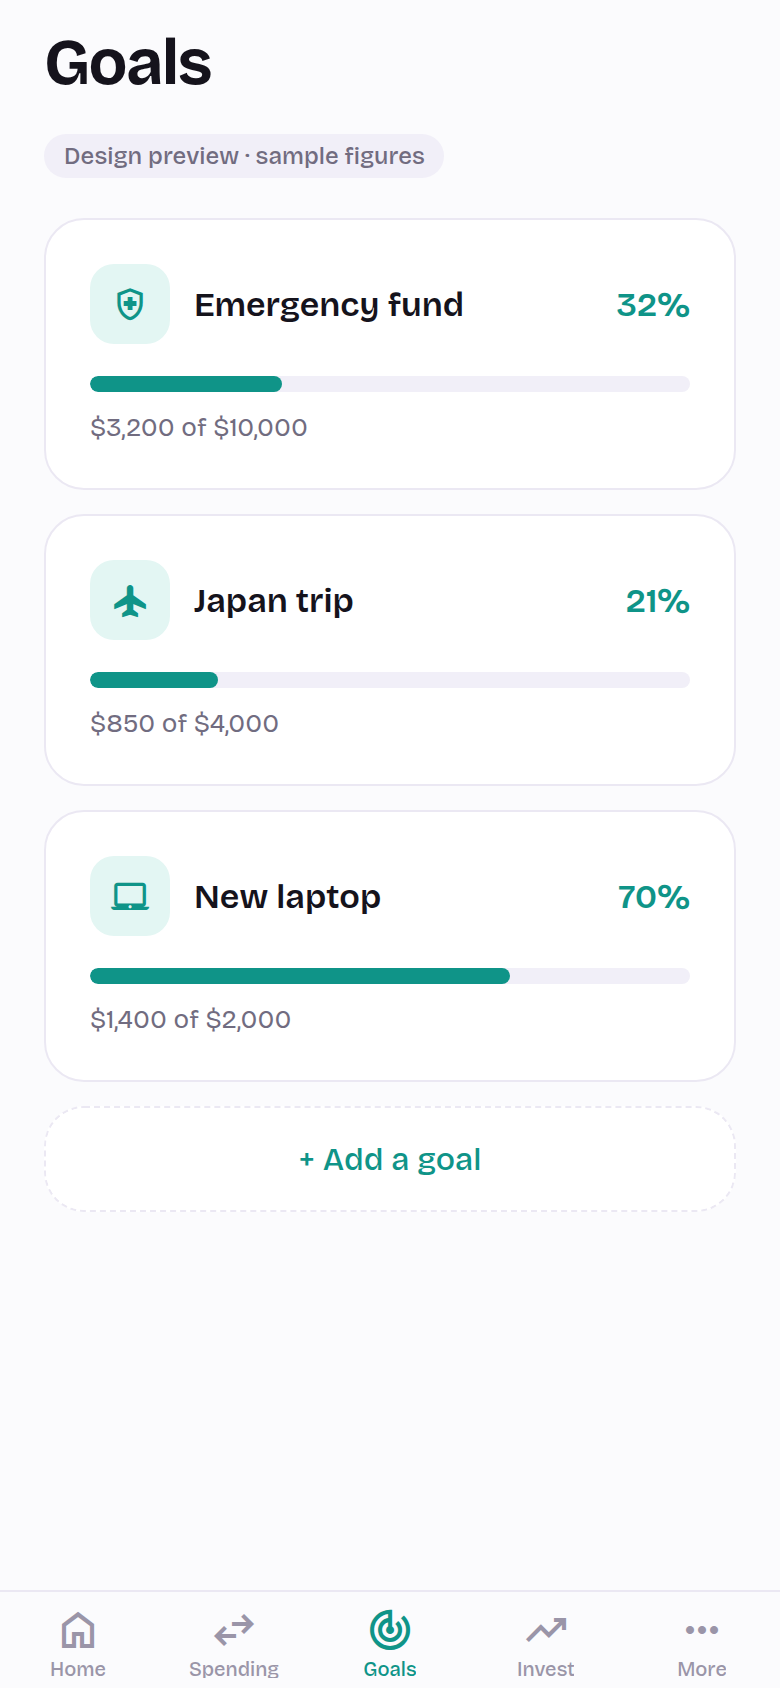
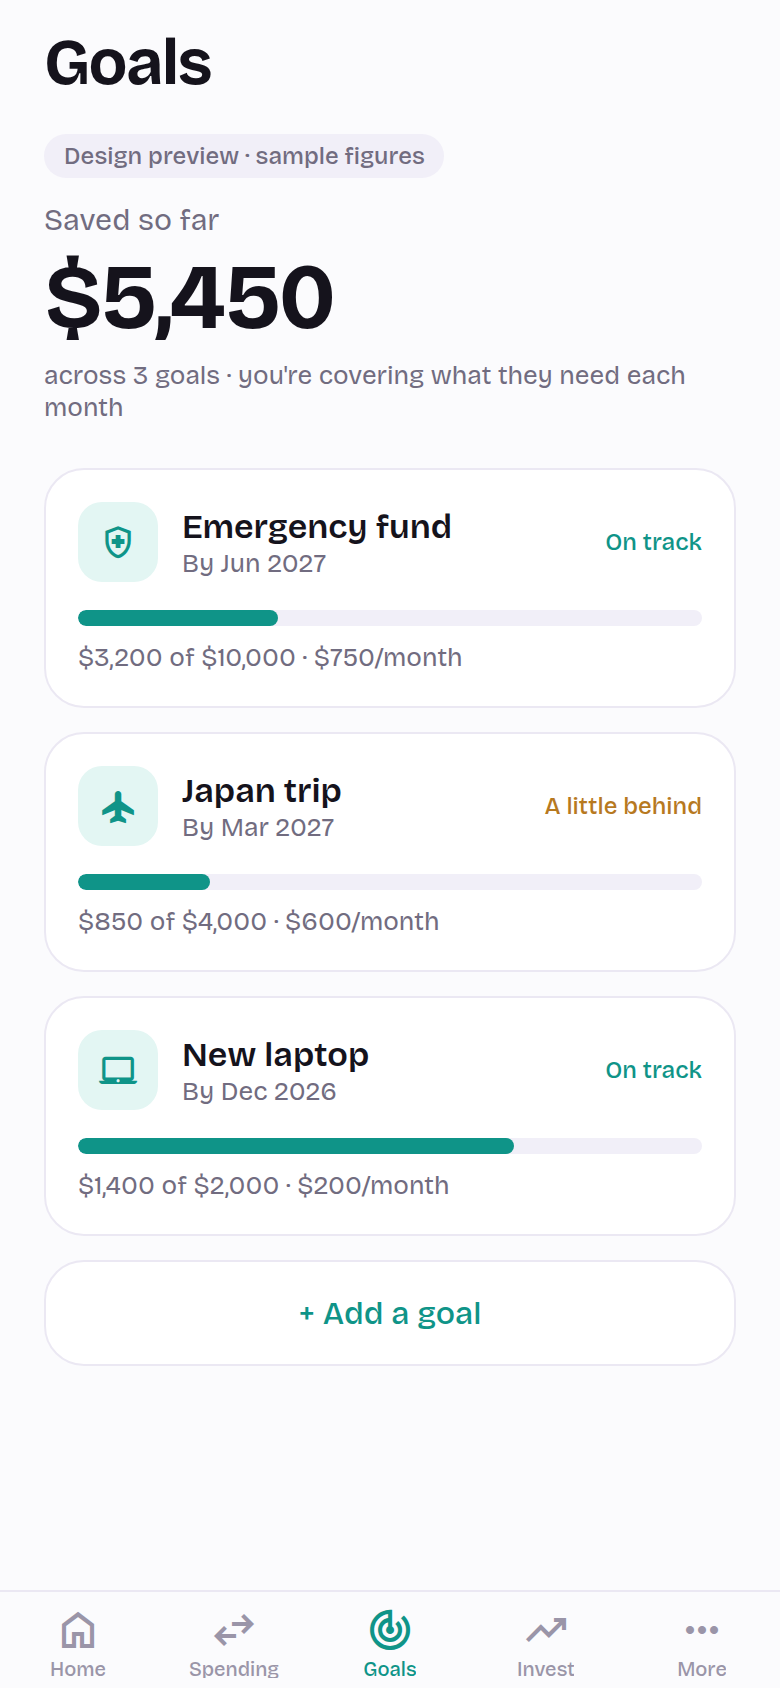
iOS app: balance screens between detail and calm; round whole-dollar amounts
Claude-Session: https://claude.ai/code/session_01MVhZ5JpFv5cdUH6FB37AaQ

diff --git a/mobile/app/(tabs)/index.tsx b/mobile/app/(tabs)/index.tsx
@@ -1,13 +1,12 @@
-import { Text, View } from 'react-native';
+import { Text, useWindowDimensions, View } from 'react-native';
 import { router } from 'expo-router';
 import { Card, formatMoney, PreviewBadge, Row, Screen, SectionHeader, useAccent } from '@/components/ui';
+import { LineChart } from '@/components/LineChart';
 import { PockButton, PockMark } from '@/components/Pock';
 import { preview as p } from '@/data/preview';
 import { space, type, useColors } from '@/theme/tokens';
 
-/**
- * Home answers one question: how much can I spend? Everything else is a tap away.
- */
+/** Home: how much can I spend, what's coming up, and a glance at goals and investments. */
 export default function Home() {
   return (
     <Screen section="home" title={`Hi ${p.name}`} right={<PockButton />}>
@@ -19,30 +18,47 @@ export default function Home() {
 function Body() {
   const c = useColors();
   const a = useAccent();
-  const next = p.upcoming[0];
+  const { width } = useWindowDimensions();
+  const goal = p.goals[0];
   return (
     <>
       <PreviewBadge />
-      <View style={{ alignItems: 'center', paddingVertical: space.xxl }}>
-        <Text style={[type.subhead, { color: c.textMuted }]}>You can spend</Text>
-        <Text style={[type.hero, { color: c.text, fontSize: 56, marginTop: 4 }]}>{formatMoney(p.safeToSpendMinor, { cents: false })}</Text>
-        <Text style={[type.subhead, { color: c.textMuted, marginTop: 6, textAlign: 'center' }]}>until payday on {p.nextIncome.date}</Text>
+      <Text style={[type.subhead, { color: c.textMuted }]}>You can spend</Text>
+      <Text style={[type.hero, { color: c.text, marginTop: 2 }]}>{formatMoney(p.safeToSpendMinor, { cents: false })}</Text>
+      <Text style={[type.footnote, { color: c.textMuted, marginTop: 4 }]}>until payday on {p.nextIncome.date} · after bills</Text>
+
+      <View style={{ marginHorizontal: -space.xl, marginTop: space.lg }}>
+        <LineChart values={[...p.balanceSeries.values]} labels={[...p.balanceSeries.labels]} width={width} height={90} format={(v) => formatMoney(v, { cents: false })} />
       </View>
 
-      <View style={{ flexDirection: 'row', gap: 10, alignItems: 'center', backgroundColor: a.soft, borderRadius: 16, padding: 14 }}>
+      <View style={{ flexDirection: 'row', gap: 10, alignItems: 'center', backgroundColor: a.soft, borderRadius: 14, padding: 12, marginTop: space.lg }}>
         <PockMark color={a.accent} size={22} />
-        <Text style={[type.subhead, { color: c.text, flex: 1 }]}>Your bills are covered. You're doing well.</Text>
+        <Text style={[type.footnote, { color: c.text, flex: 1, lineHeight: 18 }]}>Rent is covered. You could put $50 toward your emergency fund.</Text>
       </View>
 
-      <SectionHeader title="Next bill" action="All bills" />
+      <SectionHeader title="Coming up" action="All bills" />
       <Card>
-        <Row icon={next.icon} title={next.name} detail={`Due ${next.date}`} value={formatMoney(next.amountMinor, { cents: false })} last />
+        {p.upcoming.map((b, i) => (
+          <Row key={b.id} icon={b.icon} title={b.name} detail={b.date} value={formatMoney(b.amountMinor, { cents: false })} last={i === p.upcoming.length - 1} />
+        ))}
       </Card>
 
-      <SectionHeader title="Your goal" />
-      <Card onPress={() => router.push('/goals')}>
-        <Row icon="lifepreserver" title={p.goals[0].name} detail={`${Math.round((p.goals[0].currentMinor / p.goals[0].targetMinor) * 100)}% saved`} value="›" valueColor={c.textSubtle} last />
-      </Card>
+      <View style={{ flexDirection: 'row', gap: 10, marginTop: space.xl }}>
+        <Card style={{ flex: 1, padding: space.lg }} onPress={() => router.push('/goals')}>
+          <Text style={[type.caption, { color: c.section.goals.accent }]}>GOAL</Text>
+          <Text style={[type.bodyStrong, { color: c.text, marginTop: 4 }]} numberOfLines={1} adjustsFontSizeToFit>{goal.name}</Text>
+          <View style={{ height: 6, borderRadius: 6, backgroundColor: c.surface2, marginTop: 10 }}>
+            <View style={{ width: `${(goal.currentMinor / goal.targetMinor) * 100}%`, height: 6, borderRadius: 6, backgroundColor: c.section.goals.accent }} />
+          </View>
+          <Text style={[type.footnote, { color: c.textMuted, marginTop: 8 }]}>{Math.round((goal.currentMinor / goal.targetMinor) * 100)}% saved</Text>
+        </Card>
+        <Card style={{ flex: 1, padding: space.lg }} onPress={() => router.push('/invest')}>
+          <Text style={[type.caption, { color: c.section.invest.accent }]}>INVESTED</Text>
+          <Text style={[type.bodyStrong, { color: c.text, marginTop: 4 }]}>{formatMoney(p.invest.totalMinor, { cents: false })}</Text>
+          <Text style={[type.footnote, { color: c.positive, marginTop: 24 }]}>▲ {p.invest.changePct}% this month</Text>
+        </Card>
+      </View>
     </>
   );
 }
+

diff --git a/mobile/app/(tabs)/invest.tsx b/mobile/app/(tabs)/invest.tsx
@@ -1,9 +1,10 @@
-import { Text, View } from 'react-native';
+import { Text, useWindowDimensions, View } from 'react-native';
 import { Card, formatMoney, PreviewBadge, Screen, SectionHeader, useAccent } from '@/components/ui';
+import { LineChart } from '@/components/LineChart';
 import { preview as p } from '@/data/preview';
 import { space, type, useColors } from '@/theme/tokens';
 
-/** Invest: what your investments are worth, and what you own. Research lives behind search. */
+/** Invest: total value and its trend, what you own, and a short watchlist. */
 export default function Invest() {
   return (
     <Screen section="invest" title="Invest">
@@ -12,34 +13,54 @@ export default function Invest() {
   );
 }
 
-function Body() {
+function Line({ symbol, name, value, pct, last }: { symbol: string; name: string; value: string; pct: number; last: boolean }) {
   const c = useColors();
   const a = useAccent();
+  return (
+    <View style={{ flexDirection: 'row', alignItems: 'center', gap: space.md, padding: space.lg, borderBottomWidth: last ? 0 : 0.5, borderBottomColor: c.border }}>
+      <View style={{ width: 40, height: 40, borderRadius: 12, backgroundColor: a.soft, alignItems: 'center', justifyContent: 'center' }}>
+        <Text style={[type.caption, { color: a.accent, fontSize: 10 }]}>{symbol}</Text>
+      </View>
+      <View style={{ flex: 1 }}>
+        <Text style={[type.bodyStrong, { color: c.text }]}>{symbol}</Text>
+        <Text style={[type.footnote, { color: c.textMuted }]} numberOfLines={1}>{name}</Text>
+      </View>
+      <View style={{ alignItems: 'flex-end' }}>
+        <Text style={[type.bodyStrong, { color: c.text }]}>{value}</Text>
+        <Text style={[type.footnote, { color: pct >= 0 ? c.positive : c.negative }]}>{pct >= 0 ? '▲' : '▼'} {Math.abs(pct)}%</Text>
+      </View>
+    </View>
+  );
+}
+
+function Body() {
+  const c = useColors();
+  const { width } = useWindowDimensions();
   const inv = p.invest;
   return (
     <>
       <PreviewBadge />
-      <View style={{ alignItems: 'center', paddingVertical: space.xxl }}>
-        <Text style={[type.subhead, { color: c.textMuted }]}>Your investments</Text>
-        <Text style={[type.hero, { color: c.text, fontSize: 56, marginTop: 4 }]}>{formatMoney(inv.totalMinor, { cents: false })}</Text>
-        <Text style={[type.subhead, { color: c.positive, marginTop: 6 }]}>Up {inv.changePct}% this month</Text>
+      <Text style={[type.subhead, { color: c.textMuted }]}>Your investments</Text>
+      <Text style={[type.hero, { color: c.text, marginTop: 2 }]}>{formatMoney(inv.totalMinor, { cents: false })}</Text>
+      <Text style={[type.footnote, { color: c.positive, marginTop: 4 }]}>▲ {formatMoney(inv.changeMinor, { cents: false })} ({inv.changePct}%) this month</Text>
+      <View style={{ marginHorizontal: -space.xl, marginTop: space.lg }}>
+        <LineChart values={[...inv.series]} labels={[...p.balanceSeries.labels]} width={width} height={90} format={(v) => formatMoney(v, { cents: false })} />
       </View>
 
       <SectionHeader title="What you own" />
       <Card>
         {inv.holdings.map((h, i) => (
-          <View key={h.symbol} style={{ flexDirection: 'row', alignItems: 'center', gap: space.md, padding: space.lg, borderBottomWidth: i < inv.holdings.length - 1 ? 0.5 : 0, borderBottomColor: c.border }}>
-            <View style={{ width: 40, height: 40, borderRadius: 12, backgroundColor: a.soft, alignItems: 'center', justifyContent: 'center' }}>
-              <Text style={[type.caption, { color: a.accent, fontSize: 10 }]}>{h.symbol}</Text>
-            </View>
-            <Text style={[type.bodyStrong, { color: c.text, flex: 1 }]}>{h.symbol}</Text>
-            <Text style={[type.bodyStrong, { color: c.text }]}>{formatMoney(h.valueMinor, { cents: false })}</Text>
-          </View>
+          <Line key={h.symbol} symbol={h.symbol} name={h.name} value={formatMoney(h.valueMinor, { cents: false })} pct={h.changePct} last={i === inv.holdings.length - 1} />
         ))}
       </Card>
-      <Card style={{ padding: space.lg, marginTop: 12, alignItems: 'center' }} onPress={() => {}}>
-        <Text style={[type.bodyStrong, { color: a.accent }]}>Explore stocks & funds</Text>
+
+      <SectionHeader title="Watching" action="Explore" />
+      <Card>
+        {inv.watchlist.slice(0, 2).map((w, i) => (
+          <Line key={w.symbol} symbol={w.symbol} name={w.name} value={formatMoney(w.priceMinor)} pct={w.changePct} last={i === 1} />
+        ))}
       </Card>
+      <Text style={[type.caption, { color: c.textSubtle, marginTop: space.md, textAlign: 'center' }]}>Pockit helps you follow investments. It never buys or sells.</Text>
     </>
   );
 }

diff --git a/mobile/app/(tabs)/spending.tsx b/mobile/app/(tabs)/spending.tsx
@@ -1,9 +1,10 @@
 import { Text, View } from 'react-native';
-import { Card, formatMoney, PreviewBadge, ProgressBar, Row, Screen, SectionHeader } from '@/components/ui';
+import { Card, formatMoney, PreviewBadge, ProgressBar, Row, Screen, SectionHeader, useAccent } from '@/components/ui';
+import { Icon } from '@/components/Icon';
 import { preview as p } from '@/data/preview';
 import { space, type, useColors } from '@/theme/tokens';
 
-/** Spending answers: how much have I spent this month, and on what? */
+/** Spending: how much this month, against the plan, by category, and the latest few. */
 export default function Spending() {
   return (
     <Screen section="spending" title="Spending">
@@ -14,22 +15,44 @@ export default function Spending() {
 
 function Body() {
   const c = useColors();
+  const a = useAccent();
   const s = p.spending;
   const left = s.budgetMinor - s.spentMinor;
   return (
     <>
       <PreviewBadge />
-      <View style={{ alignItems: 'center', paddingVertical: space.xxl }}>
-        <Text style={[type.subhead, { color: c.textMuted }]}>Spent this month</Text>
-        <Text style={[type.hero, { color: c.text, fontSize: 56, marginTop: 4 }]}>{formatMoney(s.spentMinor, { cents: false })}</Text>
-        <Text style={[type.subhead, { color: c.textMuted, marginTop: 6 }]}>{formatMoney(left, { cents: false })} left of your {formatMoney(s.budgetMinor, { cents: false })} plan</Text>
-      </View>
-      <ProgressBar value={s.spentMinor / s.budgetMinor} height={10} />
+      <Text style={[type.subhead, { color: c.textMuted }]}>Spent in September</Text>
+      <Text style={[type.hero, { color: c.text, marginTop: 2 }]}>{formatMoney(s.spentMinor, { cents: false })}</Text>
+      <Text style={[type.footnote, { color: c.textMuted, marginTop: 4 }]}>
+        <Text style={{ color: c.positive }}>{formatMoney(left, { cents: false })} left</Text> of your {formatMoney(s.budgetMinor, { cents: false })} plan
+      </Text>
+      <View style={{ marginTop: space.lg }}><ProgressBar value={s.spentMinor / s.budgetMinor} height={10} /></View>
 
-      <SectionHeader title="Where it went" action="See all" />
+      <SectionHeader title="Where it went" action="Budget" />
       <Card>
-        {s.categories.slice(0, 3).map((cat, i) => (
-          <Row key={cat.name} icon={cat.icon} title={cat.name} value={formatMoney(cat.spentMinor, { cents: false })} last={i === 2} />
+        {s.categories.map((cat, i) => {
+          const over = cat.spentMinor > cat.budgetMinor;
+          return (
+            <View key={cat.name} style={{ flexDirection: 'row', alignItems: 'center', gap: space.md, paddingHorizontal: space.lg, paddingVertical: 12, borderBottomWidth: i < s.categories.length - 1 ? 0.5 : 0, borderBottomColor: c.border }}>
+              <View style={{ width: 36, height: 36, borderRadius: 11, backgroundColor: a.soft, alignItems: 'center', justifyContent: 'center' }}>
+                <Icon name={cat.icon} size={17} color={a.accent} />
+              </View>
+              <View style={{ flex: 1 }}>
+                <View style={{ flexDirection: 'row', justifyContent: 'space-between' }}>
+                  <Text style={[type.body, { color: c.text }]}>{cat.name}</Text>
+                  <Text style={[type.bodyStrong, { color: over ? c.negative : c.text }]}>{formatMoney(cat.spentMinor, { cents: false })}</Text>
+                </View>
+                <View style={{ marginTop: 8 }}><ProgressBar value={cat.spentMinor / cat.budgetMinor} height={4} /></View>
+              </View>
+            </View>
+          );
+        })}
+      </Card>
+
+      <SectionHeader title="Recent" action="See all" />
+      <Card>
+        {s.recent.slice(0, 3).map((t, i) => (
+          <Row key={t.id} icon={t.icon} title={t.name} detail={t.date} value={formatMoney(t.amountMinor, { signed: true })} valueColor={t.amountMinor > 0 ? c.positive : undefined} last={i === 2} />
         ))}
       </Card>
     </>

diff --git a/mobile/app/(tabs)/goals.tsx b/mobile/app/(tabs)/goals.tsx
@@ -4,7 +4,7 @@ import { Icon } from '@/components/Icon';
 import { preview as p } from '@/data/preview';
 import { space, type, useColors } from '@/theme/tokens';
 
-/** Goals: what you're saving for and how far along you are. Nothing else. */
+/** Goals: total saved, then each goal with progress, pace and a plain status. */
 export default function Goals() {
   return (
     <Screen section="goals" title="Goals">
@@ -16,27 +16,38 @@ export default function Goals() {
 function Body() {
   const c = useColors();
   const a = useAccent();
+  const saved = p.goals.reduce((s, g) => s + g.currentMinor, 0);
   return (
     <>
       <PreviewBadge />
-      <View style={{ gap: 12, marginTop: space.sm }}>
-        {p.goals.map((g) => (
-          <Card key={g.id} style={{ padding: space.xl }} onPress={() => {}}>
-            <View style={{ flexDirection: 'row', alignItems: 'center', gap: space.md }}>
-              <View style={{ width: 40, height: 40, borderRadius: 12, backgroundColor: a.soft, alignItems: 'center', justifyContent: 'center' }}>
-                <Icon name={g.icon} size={19} color={a.accent} />
+      <Text style={[type.subhead, { color: c.textMuted }]}>Saved so far</Text>
+      <Text style={[type.hero, { color: c.text, marginTop: 2 }]}>{formatMoney(saved, { cents: false })}</Text>
+      <Text style={[type.footnote, { color: c.textMuted, marginTop: 4, marginBottom: space.xl }]}>across {p.goals.length} goals · you're covering what they need each month</Text>
+
+      <View style={{ gap: 12 }}>
+        {p.goals.map((g) => {
+          const behind = g.status !== 'On track';
+          return (
+            <Card key={g.id} style={{ padding: space.lg }} onPress={() => {}}>
+              <View style={{ flexDirection: 'row', alignItems: 'center', gap: space.md }}>
+                <View style={{ width: 40, height: 40, borderRadius: 12, backgroundColor: a.soft, alignItems: 'center', justifyContent: 'center' }}>
+                  <Icon name={g.icon} size={19} color={a.accent} />
+                </View>
+                <View style={{ flex: 1 }}>
+                  <Text style={[type.headline, { color: c.text }]}>{g.name}</Text>
+                  <Text style={[type.footnote, { color: c.textMuted }]}>By {g.by}</Text>
+                </View>
+                <Text style={[type.caption, { color: behind ? c.warning : a.accent }]}>{g.status}</Text>
               </View>
-              <Text style={[type.headline, { color: c.text, flex: 1 }]}>{g.name}</Text>
-              <Text style={[type.headline, { color: a.accent }]}>{Math.round((g.currentMinor / g.targetMinor) * 100)}%</Text>
-            </View>
-            <View style={{ marginTop: 16 }}><ProgressBar value={g.currentMinor / g.targetMinor} height={8} /></View>
-            <Text style={[type.footnote, { color: c.textMuted, marginTop: 10 }]}>
-              {formatMoney(g.currentMinor, { cents: false })} of {formatMoney(g.targetMinor, { cents: false })}
-            </Text>
-          </Card>
-        ))}
+              <View style={{ marginTop: 14 }}><ProgressBar value={g.currentMinor / g.targetMinor} height={8} /></View>
+              <Text style={[type.footnote, { color: c.textMuted, marginTop: 8 }]}>
+                {formatMoney(g.currentMinor, { cents: false })} of {formatMoney(g.targetMinor, { cents: false })} · {formatMoney(g.monthlyMinor, { cents: false })}/month
+              </Text>
+            </Card>
+          );
+        })}
       </View>
-      <Card style={{ padding: space.lg, marginTop: 12, alignItems: 'center', borderStyle: 'dashed' }} onPress={() => {}}>
+      <Card style={{ padding: space.lg, marginTop: 12, alignItems: 'center' }} onPress={() => {}}>
         <Text style={[type.bodyStrong, { color: a.accent }]}>+ Add a goal</Text>
       </Card>
     </>

diff --git a/mobile/app/(tabs)/more.tsx b/mobile/app/(tabs)/more.tsx
@@ -2,10 +2,10 @@ import { Card, Row, Screen, SectionHeader } from '@/components/ui';
 import { useColors } from '@/theme/tokens';
 
 const ITEMS = [
-  { icon: 'repeat', title: 'Bills' },
-  { icon: 'building.columns', title: 'Accounts' },
-  { icon: 'square.and.arrow.down', title: 'Import' },
-  { icon: 'gearshape', title: 'Settings' },
+  { icon: 'repeat', title: 'Bills', detail: 'Rent, phone, subscriptions' },
+  { icon: 'building.columns', title: 'Accounts', detail: 'Chequing, savings, credit' },
+  { icon: 'square.and.arrow.down', title: 'Import', detail: 'Bring in a bank statement' },
+  { icon: 'gearshape', title: 'Settings', detail: 'Face ID, notifications, appearance' },
 ];
 
 export default function More() {
@@ -26,7 +26,7 @@ function Body() {
       <SectionHeader title="Manage" />
       <Card>
         {ITEMS.map((it, i) => (
-          <Row key={it.title} icon={it.icon} title={it.title} value="›" valueColor={c.textSubtle} last={i === ITEMS.length - 1} onPress={() => {}} />
+          <Row key={it.title} icon={it.icon} title={it.title} detail={it.detail} value="›" valueColor={c.textSubtle} last={i === ITEMS.length - 1} onPress={() => {}} />
         ))}
       </Card>
     </>

diff --git a/mobile/components/ui.tsx b/mobile/components/ui.tsx
@@ -134,7 +134,8 @@ export function useSegment<T extends string>(initial: T) {
 /** Minor units in, a formatted amount out. Never a float on the way through. */
 export function formatMoney(minor: number, opts: { signed?: boolean; cents?: boolean } = {}): string {
   const negative = minor < 0;
-  const abs = Math.abs(Math.round(minor));
+  // Whole-dollar display rounds to the nearest dollar ($11.99 reads as $12, not $11).
+  const abs = opts.cents === false ? Math.round(Math.abs(minor) / 100) * 100 : Math.abs(Math.round(minor));
   const dollars = Math.floor(abs / 100).toString().replace(/\B(?=(\d{3})+(?!\d))/g, ',');
   const cents = (abs % 100).toString().padStart(2, '0');
   const body = opts.cents === false ? `$${dollars}` : `$${dollars}.${cents}`;
